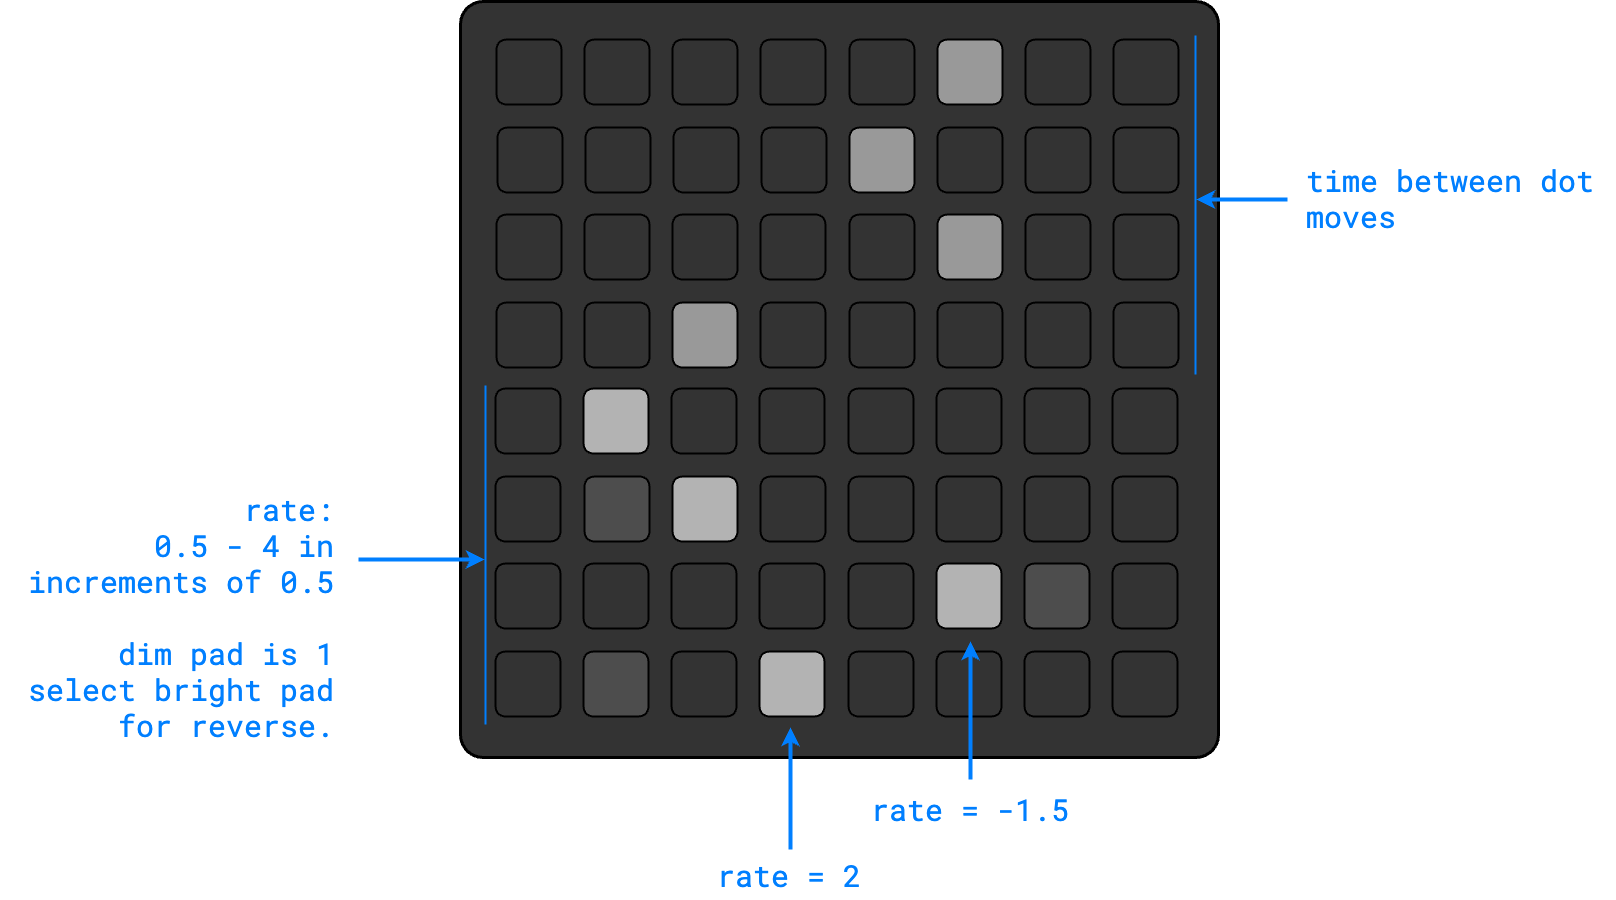
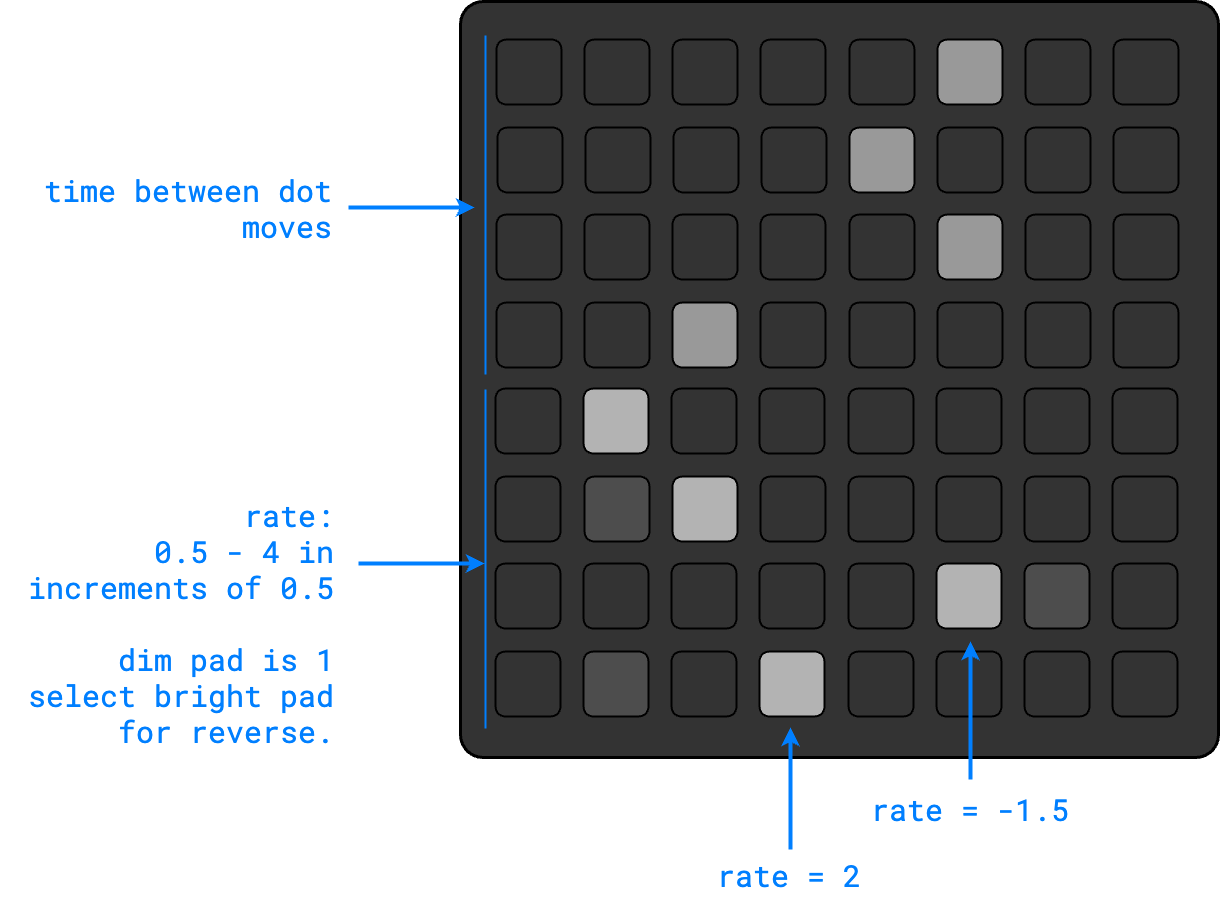
first go

diff --git a/assets/_custom.scss b/assets/_custom.scss
@@ -1,3 +1,22 @@
 /* You can add custom styles here. */
 
 // @import "plugins/numbered";
+
+.center-image-80 {
+  img {
+    display: block;
+    margin-left: auto;
+    margin-right: auto;
+    width: 80%
+  }
+}
+
+.center-image-50 {
+  img {
+    display: block;
+    margin-left: auto;
+    margin-right: auto;
+    width: 50%;
+  }
+  
+}

diff --git a/content/docs/scripts/moments/_index.md b/content/docs/scripts/moments/_index.md
@@ -1,6 +1,6 @@
 ---
 title: moments
-bookCollapseSection: true
+bookCollapseSection: false
 math : true
 ---
 
@@ -8,10 +8,53 @@ math : true
 
 moments that once were.
 
+{{% hint warning %}}
+**This script is in beta**, but I think it's mostly there. Got a few homies checking for bugs.
+{{% /hint %}}
+
+## set up
+
+**requirements**
+
+- norns
+- input (mono or stereo)
+- grid (optional, but recommended)
+
+**in maiden ...**
+
+```
+;install https://github.com/airportpeople/moments
+```
+
 ## basic idea
 
-constantly record the last $n$ seconds of ...
+Constantly record the last `loop length` seconds of input, and allow four voices to play back from (four) random points within that loop.
+
+- The voices will only move if the amplitude of the input goes above a threshold. This creates a strange sort of lifelike feel.
+- The random starting point for each voice is updated (randomly within the buffer) based on a fraction of the tempo set in `PARAMS/CLOCK`. Each voice has it's own "move rate".
 
 ## ui
 
-The total loop length can be updated using either knob (between 1 and 20? seconds).
+{{< figure src="/moments_example.png" class="center-image">}}
+
+- The total loop length can be updated using either **K2** or **K3**
+- Adjusting either **E2** or **E3** will update the loop length
+
+Here, the four dots represent the four voices. When the `input_type` is set to *mono*, the four voices read from the same buffer. Otherwise, when `input_type` is set to *stereo*, voices 1 and 2 (the top two dots) read from the left input, and voices 3 and 4 read from the right input.
+
+## grid
+
+This script is compatible with either 128-pad monome grids, or the 64-pad Launchpad. There is a left 64-pad section, and a right 64-pad section.
+
+**left section**
+
+{{< figure src="/grid/moments_1.png" class="center-image-80">}}
+
+The top and bottom portions contain four rows. Each row corresponds to a voice (or, in the UI, a dot).
+
+**right section**
+
+{{< figure src="/grid/moments_2.png">}}
+
+- The time between dot moves is determined by a fraction of the `CLOCK` tempo. The 8 pads correspond to $\displaystyle \frac{1}{k}$ of a beat for $k = 8, 7, ..., 1$. I.e., faster movements are on the left, and slower less frequent movements are on the right.
+- The rate can be forward or reverse. To toggle between the two, select the bright (selected) pad. These pads divide the rate in increments of 0.5 from 0.5 to 4. So, in order, the *forward* rate options would be 0.5, 1, 1.5, ..., 4. And, in order, the *reverse* rate options would be -4, -3.5, -3, ..., -0.5. The dimly lit pad indicates a rate magnitude of 1.

diff --git a/content/docs/scripts/_index.md b/content/docs/scripts/_index.md
@@ -2,13 +2,14 @@
 weight: 1
 bookFlatSection: true
 title: scripts
+booktoc: false
 ---
 
 # monome norns scripts
 
 Right now, I intend only to upkeep two scripts:
 
-- moments: a sort of delay (*in development*)
-- movements: a grid-based sequencer and sampler (*in development*)
+- moments: a sort of dancing delay
+- movements: a robust grid-based sequencer and sampler (*[in development](https://github.com/airportpeople/movements)*)
 
-Maybe someday, I'll do more.
+Maybe someday, I'll make more.

diff --git a/content/_index.md b/content/_index.md
@@ -4,7 +4,7 @@ type: docs
 booktoc: false
 ---
 
-This is a place to share pixels:
+This is a place to share pixels.
 
 The [scripts](/docs/scripts) are for monome norns. The [ideas](/docs/ideas) are short, and the [blog](/posts) articles are long.
 

diff --git a/content/docs/ideas/idea_2.md b/content/docs/ideas/idea_2.md
@@ -1,8 +1,7 @@
 ---
 title: watercolors
-weight: 2
 ---
 
-# first idea
+# what if you ...
 
 make music upside down.

diff --git a/content/docs/ideas/idea_1.md b/content/docs/ideas/idea_1.md
@@ -2,6 +2,6 @@
 title: elements
 ---
 
-# other things
+# language
 
-are other things.
+doesn't quite ...

diff --git a/content/docs/ideas/_index.md b/content/docs/ideas/_index.md
@@ -3,4 +3,4 @@ bookFlatSection: true
 title: ideas
 ---
 
-Short form words
+a few words
